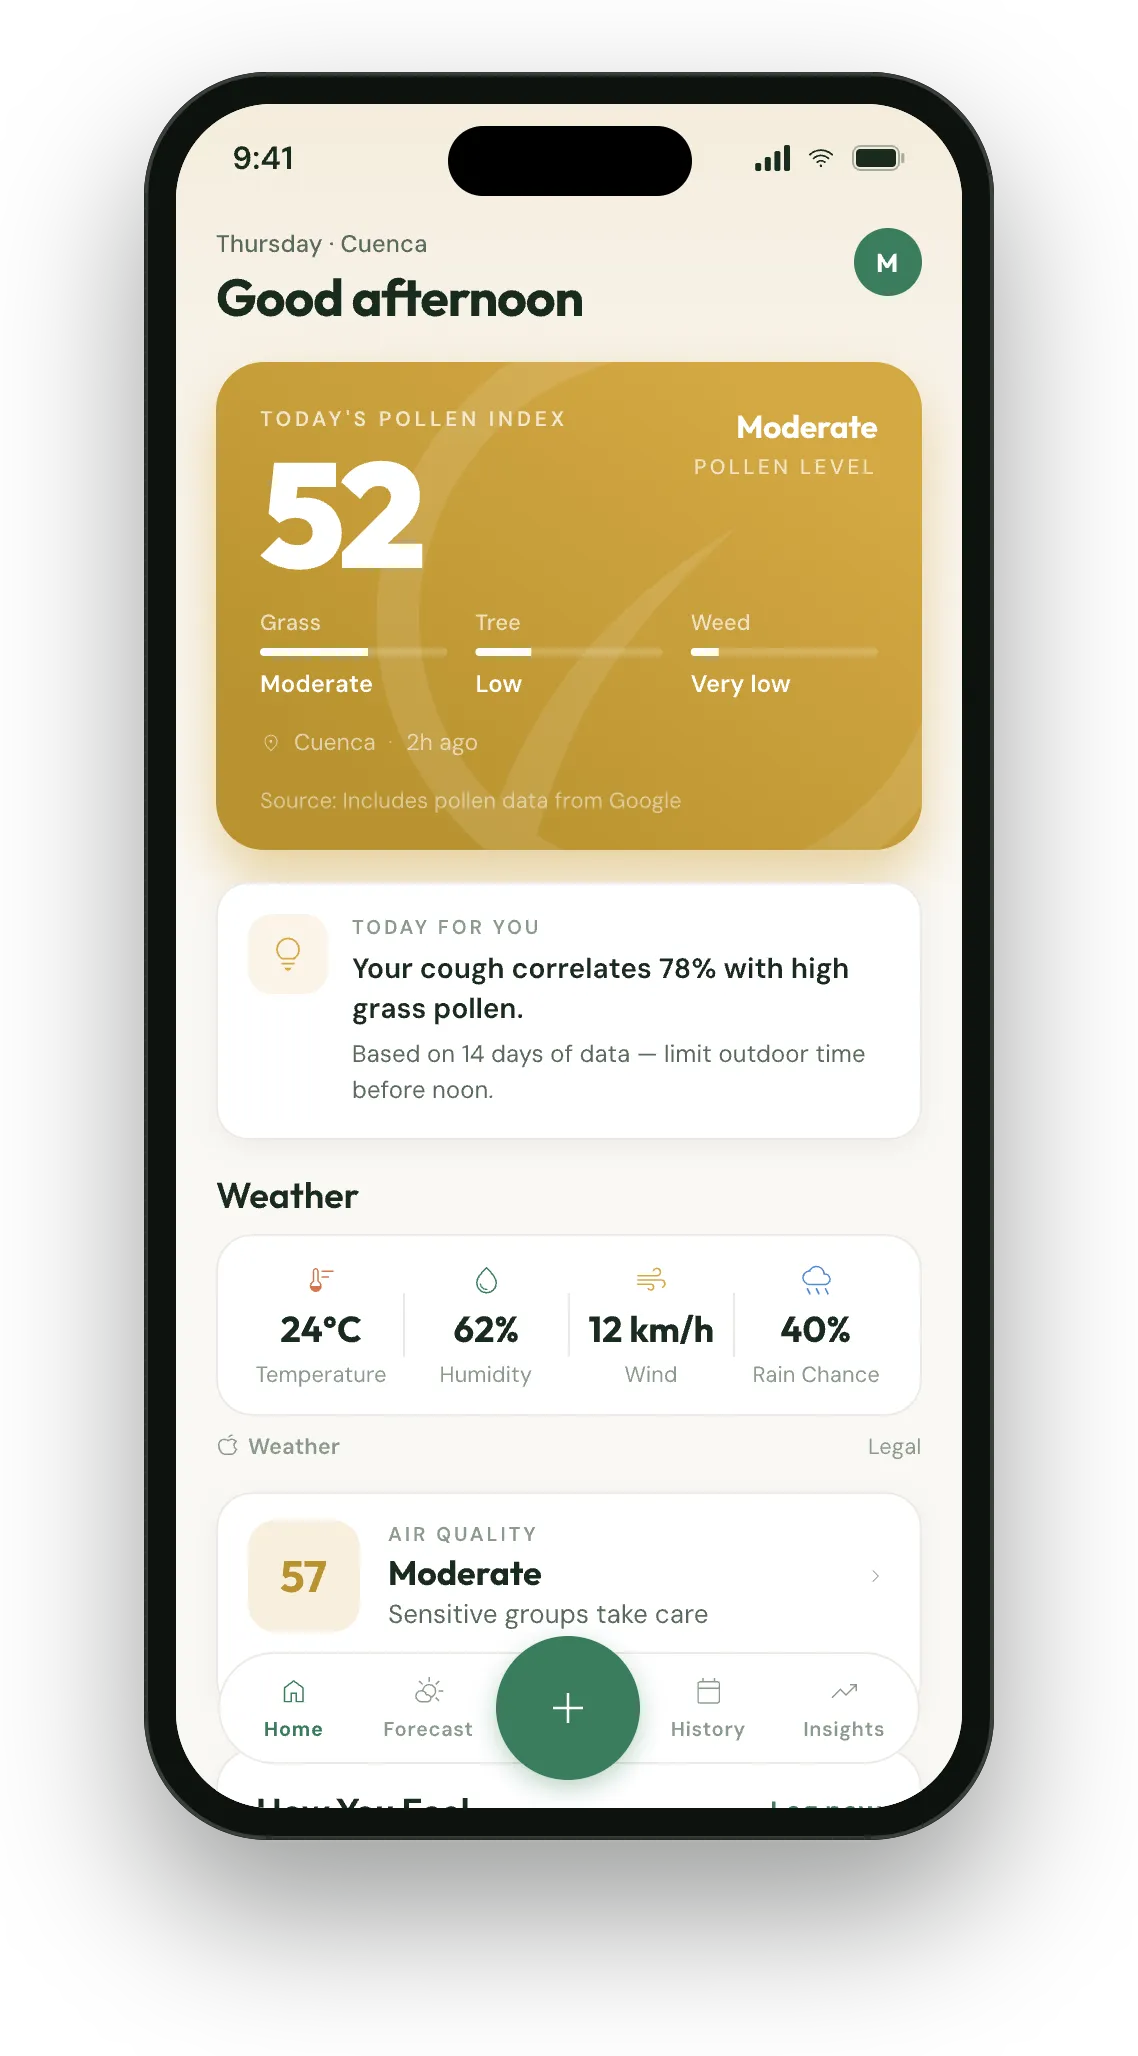
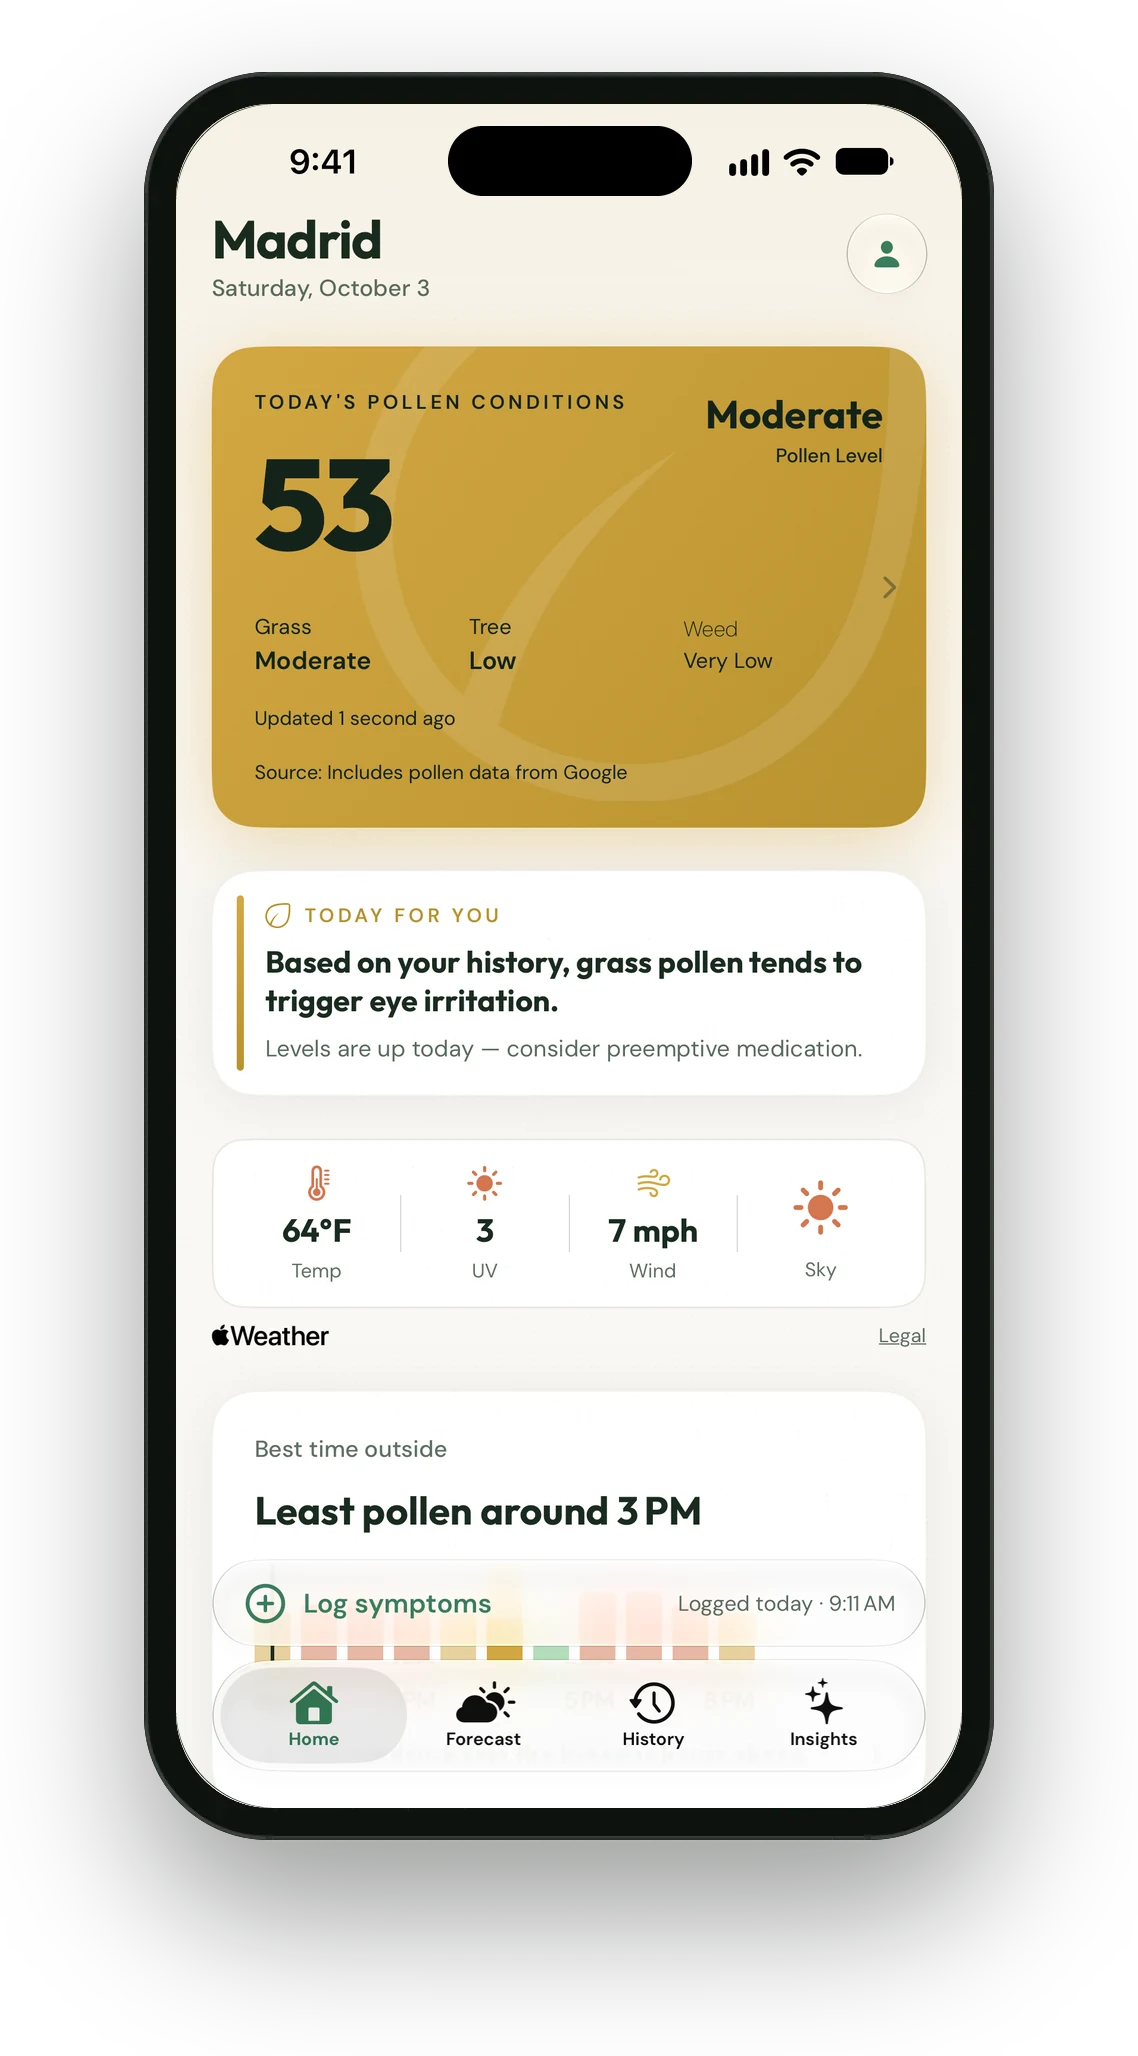
fix(web): show real 1.0 app captures and stop calling the score an index (WEB-9)
The four phone screens were drawn Atlas renders from June, with the old
tab bar and pre-launch copy. They are now the App Store captures from
2026-10-03 in the same bezel. Copy beside them that the app contradicts
is corrected, and four unused full-size images are removed.

diff --git a/index.html b/index.html
@@ -700,7 +700,7 @@
       <div class="hero-glow"></div>
       <svg class="hero-leaf-bg"><use href="#ecoleaf"/></svg>
       <img class="phone secondary" src="img/screens/insights-device.webp" alt="PollenPath Insights screen" loading="lazy" width="569" height="1028">
-      <img class="phone" src="img/screens/home-device.webp" alt="PollenPath Home screen — pollen index, weather, air quality" width="569" height="1028">
+      <img class="phone" src="img/screens/home-device.webp" alt="PollenPath Home screen: today's pollen conditions and weather" width="569" height="1028">
     </div>
   </div>
 </section>
@@ -733,11 +733,11 @@
       <div class="feature-copy reveal d1">
         <div class="overline">Home</div>
         <h3>See your whole day at a glance.</h3>
-        <p>A single hero index tells you today's pollen level instantly. Temperature, humidity, wind, pressure, and air quality sit one tap below — pulled live for your location.</p>
+        <p>One score tells you today's pollen conditions at a glance. Temperature, UV, wind and the sky sit right under it, with air quality further down — all live for your location.</p>
         <ul class="feature-list">
-          <li><span class="fi-ic"><svg viewBox="0 0 24 24" fill="none" stroke="currentColor" stroke-width="2" stroke-linecap="round" stroke-linejoin="round"><use href="#leaf"/></svg></span><span><b>Glanceable pollen index</b> — Grass, Tree, and Weed broken out, with out-of-season handled gracefully.</span></li>
+          <li><span class="fi-ic"><svg viewBox="0 0 24 24" fill="none" stroke="currentColor" stroke-width="2" stroke-linecap="round" stroke-linejoin="round"><use href="#leaf"/></svg></span><span><b>Pollen at a glance</b> — Grass, Tree, and Weed broken out, with out-of-season handled gracefully.</span></li>
           <li><span class="fi-ic"><svg viewBox="0 0 24 24" fill="none" stroke="currentColor" stroke-width="2" stroke-linecap="round" stroke-linejoin="round"><path d="M3 8.5h11.5a2.6 2.6 0 1 0-2.6-2.6M3 12h16.5a2.6 2.6 0 1 1-2.6 2.6M3 15.5h9.5a2.6 2.6 0 1 1-2.6 2.6"/></svg></span><span><b>Live weather &amp; air quality</b> — the conditions that drive your symptoms, always current.</span></li>
-          <li><span class="fi-ic"><svg viewBox="0 0 24 24" fill="none" stroke="currentColor" stroke-width="2" stroke-linecap="round" stroke-linejoin="round"><rect x="3" y="4.5" width="18" height="16.5" rx="2.5"/><path d="M3 9.5h18M8 2.5v4M16 2.5v4"/></svg></span><span><b>Home-Screen widgets</b> — today's index without even opening the app.</span></li>
+          <li><span class="fi-ic"><svg viewBox="0 0 24 24" fill="none" stroke="currentColor" stroke-width="2" stroke-linecap="round" stroke-linejoin="round"><rect x="3" y="4.5" width="18" height="16.5" rx="2.5"/><path d="M3 9.5h18M8 2.5v4M16 2.5v4"/></svg></span><span><b>Home-Screen widgets</b> — today's pollen without even opening the app.</span></li>
         </ul>
       </div>
     </div>
@@ -751,7 +751,7 @@
       <div class="feature-copy reveal d1">
         <div class="overline eyebrow-leaf"><svg viewBox="0 0 24 24" width="16" height="16" class="ic-secondary"><path d="M12 2.5c.5 3.7 1.8 5 5.5 5.5-3.7.5-5 1.8-5.5 5.5-.5-3.7-1.8-5-5.5-5.5 3.7-.5 5-1.8 5.5-5.5z" fill="currentColor"/></svg> Insights</div>
         <h3>Find your triggers, on your device.</h3>
-        <p>On-device machine learning correlates how you feel with what's in the air, then surfaces it plainly — a real number, never a vague promise. Your data never leaves your phone.</p>
+        <p>PollenPath compares how you feel with the conditions around you, on your iPhone, then tells you plainly what lines up with your bad days.</p>
         <ul class="feature-list">
           <li><span class="fi-ic"><svg viewBox="0 0 24 24" fill="none" stroke="currentColor" stroke-width="2" stroke-linecap="round" stroke-linejoin="round"><circle cx="12" cy="8" r="3.6"/><path d="M5 20.5a7 7 0 0 1 14 0"/></svg></span><span><b>Today for You</b> — a calm, actionable read on your day.</span></li>
           <li><span class="fi-ic"><svg viewBox="0 0 24 24" fill="none" stroke="currentColor" stroke-width="2" stroke-linecap="round" stroke-linejoin="round"><path d="M3.5 3.5v15a2 2 0 0 0 2 2h15"/><path d="m7.5 14.5 3.5-3.5 3 3 4.5-5"/></svg></span><span><b>Weekly AI summary</b> — concrete correlations like "grass pollen on 78% of bad days."</span></li>
@@ -813,8 +813,8 @@
   <div class="wrap">
     <div class="sec-head reveal sec-head--flush">
       <div class="overline">Privacy-first by design</div>
-      <h2 class="display">Your health data never leaves your phone.</h2>
-      <p class="lede">PollenPath was built on a simple promise: understand your body without handing it to anyone. The intelligence runs on-device — there's nothing to leak.</p>
+      <h2 class="display">Your health data stays in your own Apple account.</h2>
+      <p class="lede">PollenPath was built on a simple promise: understand your body without handing it to anyone. There's no PollenPath server, so your symptoms never reach us, and the analysis runs on your iPhone.</p>
     </div>
     <div class="privacy-grid">
       <div class="pcard reveal">
@@ -874,7 +874,7 @@
         <div class="tier-price"><span class="amt" data-monthly="$2.99" data-yearly="$29.99">$29.99</span><span class="per" data-per-cycle>/ year</span></div>
         <a class="btn btn-primary" href="#download">Choose Basic</a>
         <ul class="tier-feats">
-          <li><svg viewBox="0 0 24 24" fill="none" stroke="currentColor" stroke-width="2" stroke-linecap="round" stroke-linejoin="round"><path d="m5 12.5 4.5 4.5L19 6.5"/></svg> Today's pollen index</li>
+          <li><svg viewBox="0 0 24 24" fill="none" stroke="currentColor" stroke-width="2" stroke-linecap="round" stroke-linejoin="round"><path d="m5 12.5 4.5 4.5L19 6.5"/></svg> Today's pollen conditions</li>
           <li><svg viewBox="0 0 24 24" fill="none" stroke="currentColor" stroke-width="2" stroke-linecap="round" stroke-linejoin="round"><path d="m5 12.5 4.5 4.5L19 6.5"/></svg> Air quality data</li>
           <li><svg viewBox="0 0 24 24" fill="none" stroke="currentColor" stroke-width="2" stroke-linecap="round" stroke-linejoin="round"><path d="m5 12.5 4.5 4.5L19 6.5"/></svg> Today for You insights</li>
           <li><svg viewBox="0 0 24 24" fill="none" stroke="currentColor" stroke-width="2" stroke-linecap="round" stroke-linejoin="round"><path d="m5 12.5 4.5 4.5L19 6.5"/></svg> 90-day history</li>
@@ -923,7 +923,7 @@
       </details>
       <details class="faq-item reveal">
         <summary class="faq-q">What do I get for free?<span class="chev"><svg viewBox="0 0 24 24" fill="none" stroke="currentColor" stroke-width="2" stroke-linecap="round" stroke-linejoin="round"><path d="M5.5 9 12 15.5 18.5 9"/></svg></span></summary>
-        <div class="faq-a">Symptom logging, live weather, Apple Health integration, and your Top Symptoms insight are free forever. Basic and Pro add today's pollen index, air quality, longer history, forecasts, and on-device predictions.</div>
+        <div class="faq-a">Symptom logging, live weather, Apple Health integration, and your Top Symptoms insight are free forever. Basic and Pro add live pollen, air quality, longer history, forecasts, and on-device predictions.</div>
       </details>
       <details class="faq-item reveal">
         <summary class="faq-q">Which devices are supported?<span class="chev"><svg viewBox="0 0 24 24" fill="none" stroke="currentColor" stroke-width="2" stroke-linecap="round" stroke-linejoin="round"><path d="M5.5 9 12 15.5 18.5 9"/></svg></span></summary>
